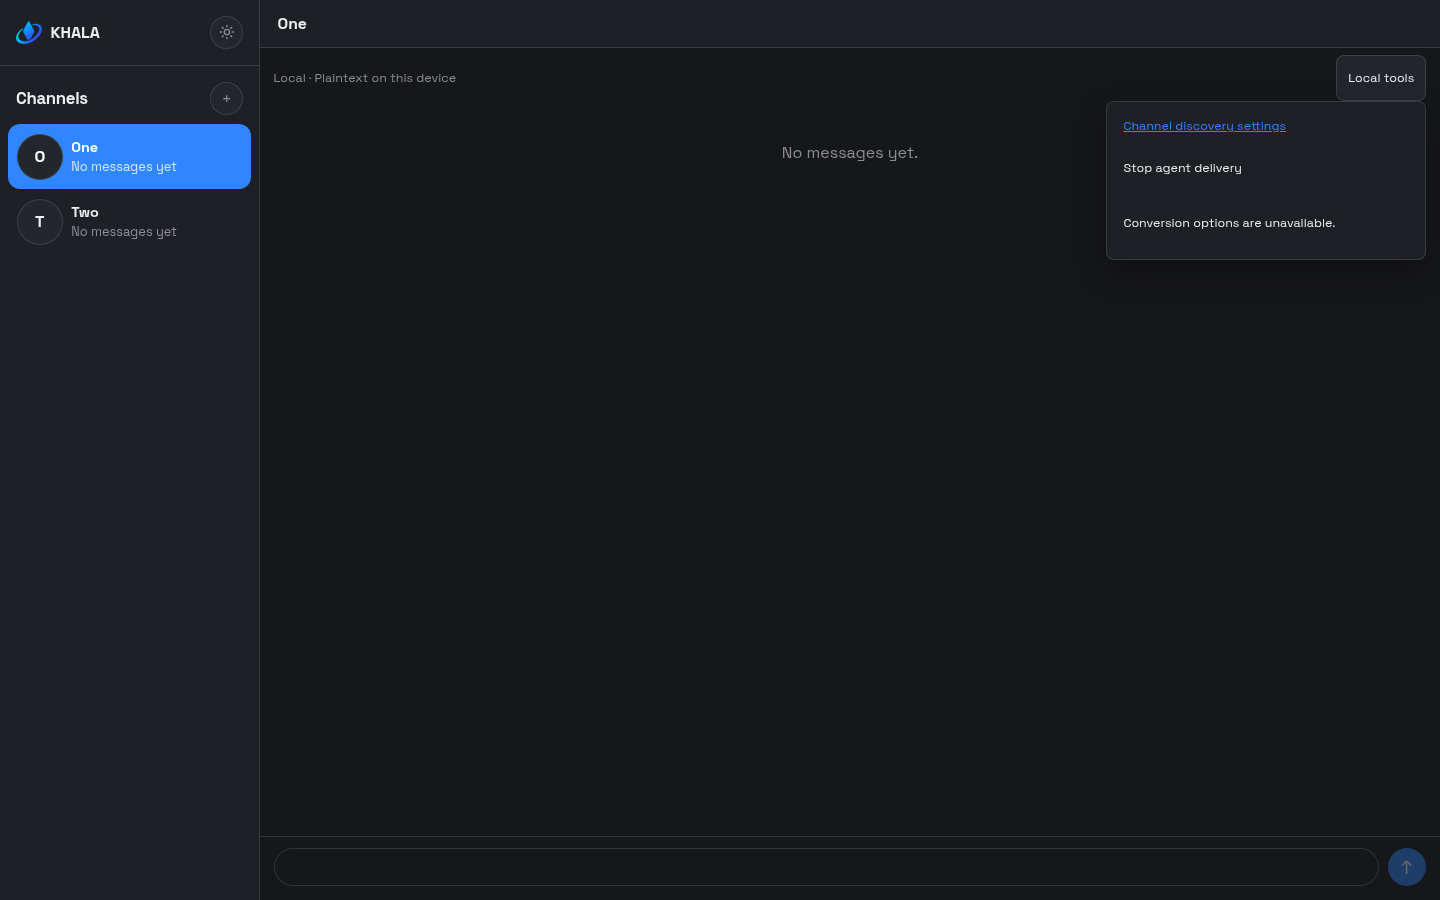
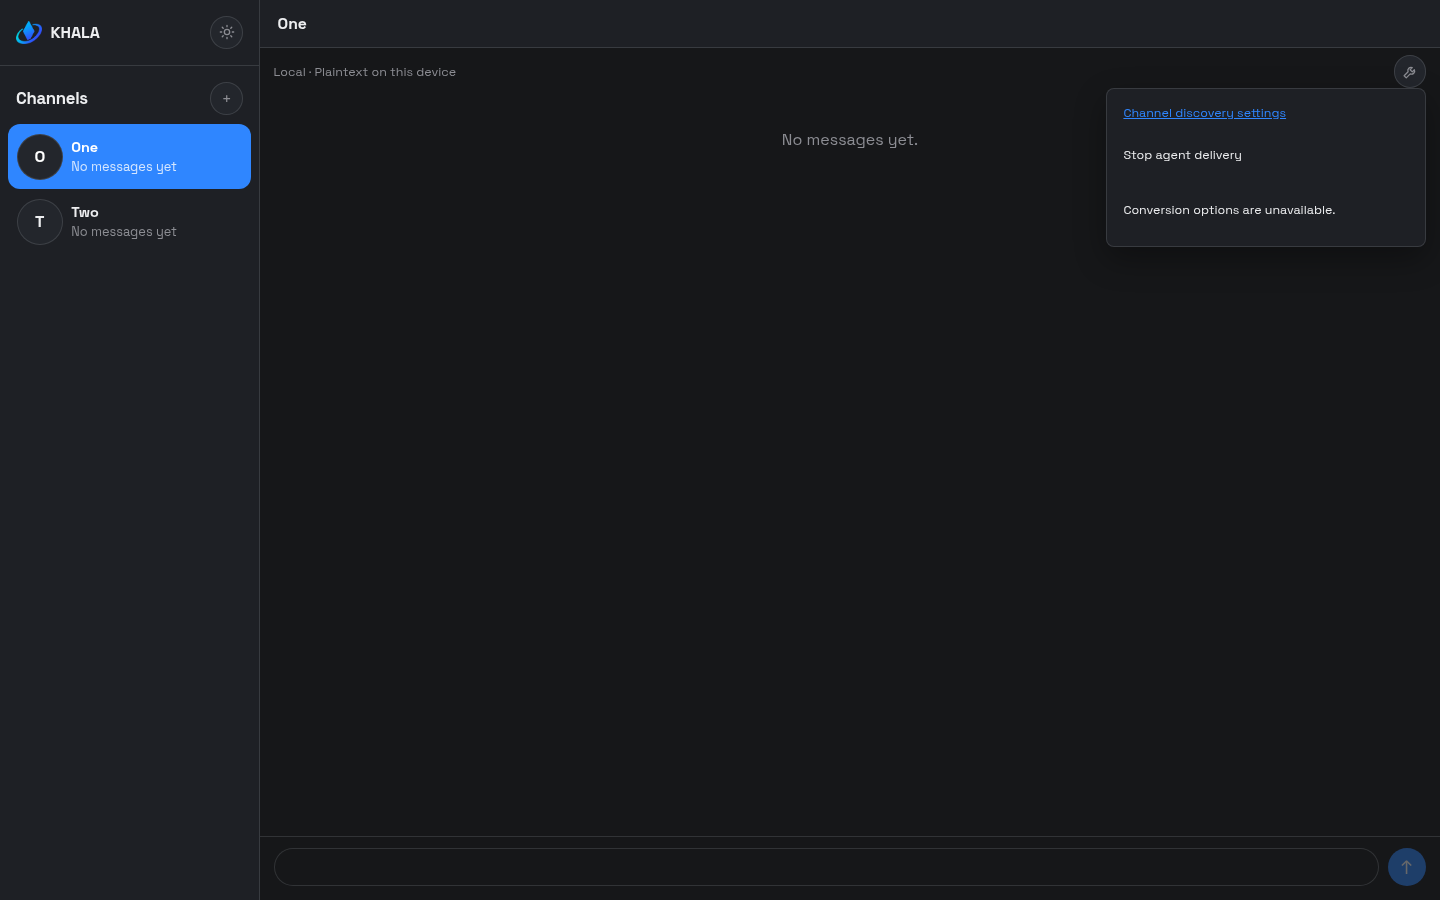
Keep channel tools compact

diff --git a/apps/web/src/composition/human/mount.tsx b/apps/web/src/composition/human/mount.tsx
@@ -4,6 +4,7 @@ import type { ChannelAccessRequestHandle, IdentityPort } from '@khala/contracts/
 import { AiurShell, ThemeToggle } from '../../shell/AiurShell';
 import { KhalaPageFrame } from '../../shell/KhalaPageFrame';
 import { Panel } from '../../shell/Panel';
+import { ChannelCareIcon } from '../../shell/icons';
 import type { ShellMode } from '../../shell/types';
 import { ChannelRequestsInbox } from '../../features/channel-access/ChannelRequestsInbox';
 import { ChannelRequestsNavEntry } from '../../features/channel-access/ChannelRequestsNavEntry';
@@ -201,9 +202,10 @@ function OwnerShell({ application, createController, routes, chrome, context, na
         onNavigate={() => { setDrawerOpen(false); navigateRoute(routes.channelRequestsPath()); }} />
         <button ref={createButton} type="button" className="aiur-shell__icon-button" aria-label="Create channel" title="Create channel" onClick={() => { setDrawerOpen(false); setCreating(true); }}>+</button></>}
       onSelect={id => { if (conversations?.some(item => item.id === id)) { setDrawerOpen(false); navigateRoute(routes.roomPath(id)); } }} />
-    {hasChannelTools && (route.kind === 'channel' || route.kind === 'channel_tools') ? <a className="khala-sidebar__channel-tools" href={routes.channelToolsPath(route.roomId)}
+    {hasChannelTools && (route.kind === 'channel' || route.kind === 'channel_tools') ? <a className="khala-sidebar__channel-tools aiur-shell__icon-button" href={routes.channelToolsPath(route.roomId)}
+      aria-label="Channel care" title="Channel care"
       aria-current={route.kind === 'channel_tools' ? 'page' : undefined}
-      onClick={event => { if (event.button !== 0 || event.metaKey || event.ctrlKey || event.shiftKey || event.altKey) return; event.preventDefault(); setDrawerOpen(false); navigateRoute(routes.channelToolsPath(route.roomId)); }}>Channel care</a> : null}
+      onClick={event => { if (event.button !== 0 || event.metaKey || event.ctrlKey || event.shiftKey || event.altKey) return; event.preventDefault(); setDrawerOpen(false); navigateRoute(routes.channelToolsPath(route.roomId)); }}><ChannelCareIcon /></a> : null}
   </>;
   return (
     <AiurShell

diff --git a/apps/web/src/shell/shell.css b/apps/web/src/shell/shell.css
@@ -207,14 +207,14 @@
 .khala-sidebar .conversation-list{border-right:0;min-height:0;height:auto}
 .khala-sidebar .conversation-list__head{align-items:center;gap:.5rem}
 .khala-sidebar .conversation-list__head-actions{margin-left:auto}
-.khala-sidebar__channel-tools{display:block;margin:.65rem .75rem;padding:.7rem .8rem;color:var(--khala-ink);text-decoration:none;border:1px solid var(--khala-line);border-radius:.5rem}
-.khala-sidebar__channel-tools:hover{background:var(--khala-fill-control)}
+.khala-sidebar__channel-tools{width:44px;height:44px;margin:.65rem .75rem;text-decoration:none}
 .khala-sidebar__channel-tools:focus-visible,.khala-sidebar__channel-tools[aria-current='page']{outline:2px solid var(--khala-accent);outline-offset:2px}
 .channel-tools-page{height:100%;overflow:auto;padding:1rem;box-sizing:border-box}
 .channel-tools-page .khala-page-frame{max-width:60rem;margin:0 auto}
 .channel-tools-page .khala-page-frame__body{display:flex;flex-direction:column;gap:1rem}
 .local-channel-tools{position:relative;color:var(--khala-ink)}
-.local-channel-tools>summary{display:flex;align-items:center;min-height:44px;padding:0 .7rem;cursor:pointer;border:1px solid var(--khala-line);border-radius:.5rem;background:var(--khala-fill-control)}
+.local-channel-tools>summary{width:44px;height:44px;box-sizing:border-box;list-style:none}
+.local-channel-tools>summary::-webkit-details-marker{display:none}
 .local-channel-tools>summary:focus-visible{outline:2px solid var(--khala-accent);outline-offset:2px}
 .local-channel-tools__content{position:absolute;right:0;top:100%;z-index:5;display:grid;gap:.75rem;width:min(20rem,calc(100vw - 2rem));max-height:min(60vh,30rem);overflow:auto;padding:1rem;box-sizing:border-box;background:var(--khala-fill-raised);border:1px solid var(--khala-line);box-shadow:0 12px 32px #0005;border-radius:.5rem}
 .local-channel-tools__content a{color:var(--khala-accent)}

diff --git a/apps/web/src/internal/local-entry.browser.spec.ts b/apps/web/src/internal/local-entry.browser.spec.ts
@@ -119,7 +119,14 @@ test('local web entry: create/open/send/observe over real HTTP without hosted-on
     assert.equal(await page.getByRole('heading', { name: 'One', level: 2 }).count(), 1);
     assert.equal(await page.getByRole('button', { name: 'Channel details' }).count(), 0);
     const localTools = page.locator('.local-channel-tools');
-    await localTools.locator('summary').first().click();
+    const toolsToggle = localTools.locator('summary').first();
+    assert.equal(await toolsToggle.getAttribute('aria-label'), 'Local tools');
+    assert.equal(await toolsToggle.getAttribute('title'), 'Local tools');
+    assert.equal((await toolsToggle.innerText()).trim(), '');
+    await toolsToggle.focus();
+    assert.equal(await toolsToggle.evaluate(node => node === document.activeElement), true);
+    await page.keyboard.press('Enter');
+    assert.equal(await localTools.getAttribute('open'), '');
     await localTools.getByRole('link', { name: 'Channel discovery settings' }).waitFor();
     assert.equal(await localTools.getByRole('link', { name: 'Channel requests' }).count(), 0);
     const stopSummary = localTools.locator('summary').filter({ hasText: 'Stop agent delivery' });
@@ -136,7 +143,9 @@ test('local web entry: create/open/send/observe over real HTTP without hosted-on
       await page.setViewportSize({ width: 1440, height: 900 });
       await page.screenshot({ path: path.join(screenshotDir, 'local-desktop-tools.png'), fullPage: true });
     }
-    await localTools.locator('summary').first().click();
+    await toolsToggle.focus();
+    await page.keyboard.press('Enter');
+    assert.equal(await localTools.getAttribute('open'), null);
     if (screenshotDir) {
       await page.screenshot({ path: path.join(screenshotDir, 'local-desktop.png'), fullPage: true });
       await page.setViewportSize({ width: 390, height: 844 });

diff --git a/apps/web/src/composition/human/device-loss.browser.spec.ts b/apps/web/src/composition/human/device-loss.browser.spec.ts
@@ -219,7 +219,12 @@ test('owner conversation shell fills desktop and phone with conditional request 
       await mkdir(screenshotDir, { recursive: true });
       await page.screenshot({ path: join(screenshotDir, 'human-desktop.png') });
     }
-    await page.getByRole('link', { name: 'Channel care' }).click();
+    const channelCare = page.getByRole('link', { name: 'Channel care' });
+    assert.equal(await channelCare.getAttribute('title'), 'Channel care');
+    assert.equal((await channelCare.innerText()).trim(), '');
+    await channelCare.focus();
+    assert.equal(await channelCare.evaluate(node => node === document.activeElement), true);
+    await page.keyboard.press('Enter');
     await page.getByRole('heading', { name: 'Channel care' }).waitFor();
     await page.evaluate(() => window.__lossHarness.navigate('/channels/room_1'));
     await title.getByText('First channel').waitFor();
@@ -231,6 +236,8 @@ test('owner conversation shell fills desktop and phone with conditional request 
     if (screenshotDir) await page.screenshot({ path: join(screenshotDir, 'human-mobile.png') });
     await page.getByRole('button', { name: 'Channels' }).click();
     await page.waitForTimeout(250);
+    assert.equal(await channelCare.isVisible(), true);
+    if (screenshotDir) await page.screenshot({ path: join(screenshotDir, 'human-mobile-care.png') });
     await requests.focus();
     assert.equal(await requests.evaluate(node => node === document.activeElement), true);
     if (screenshotDir) await page.screenshot({ path: join(screenshotDir, 'human-mobile-requests.png') });

diff --git a/apps/web/src/internal/composition/room.tsx b/apps/web/src/internal/composition/room.tsx
@@ -8,6 +8,7 @@ import { ChannelScreen } from '../../features/channel/ChannelScreen';
 import { createTimelineController } from '../../features/timeline/controller';
 import { TimelineScreen } from '../../features/timeline/TimelineScreen';
 import { Panel } from '../../shell/Panel';
+import { LocalToolsIcon } from '../../shell/icons';
 import type { HumanRouteContext } from '../../composition/human/application';
 import { LocalAgentControls } from '../controls/LocalAgentControls';
 import { createListeningController } from '../controls/listening-controller';
@@ -216,7 +217,7 @@ export function LocalRoom({
       showPresence={false}
       renderHeaderActions={() => <>
         {listeningController ? <LocalAgentControls controller={listeningController} /> : null}
-        <details className="local-channel-tools"><summary>Local tools</summary><div className="local-channel-tools__content">
+        <details className="local-channel-tools"><summary className="aiur-shell__icon-button" aria-label="Local tools" title="Local tools"><LocalToolsIcon /></summary><div className="local-channel-tools__content">
           {settingsHref ? <a href={settingsHref}>Channel discovery settings</a> : null}
           {stop && stopController ? <details><summary>Stop agent delivery</summary><StopControl controller={stopController} replacementAccessUrl={stop.channelUrl(roomId)} /></details> : null}
           {makeExternal ? journey.kind === 'unknown' ? <p role="status">Checking conversion options…</p>

diff --git a/apps/web/src/shell/icons.tsx b/apps/web/src/shell/icons.tsx
@@ -16,3 +16,17 @@ export function SettingsIcon() {
     <circle cx="12" cy="12" r="3" />
   </svg>;
 }
+
+export function ChannelCareIcon() {
+  return <svg aria-hidden="true" viewBox="0 0 24 24" width="17" height="17" fill="none" stroke="currentColor" strokeWidth="1.8" strokeLinecap="round" strokeLinejoin="round">
+    <circle cx="12" cy="12" r="9" />
+    <circle cx="12" cy="12" r="3" />
+    <path d="M5.6 5.6 9.9 9.9m4.2 4.2 4.3 4.3M18.4 5.6l-4.3 4.3m-4.2 4.2-4.3 4.3" />
+  </svg>;
+}
+
+export function LocalToolsIcon() {
+  return <svg aria-hidden="true" viewBox="0 0 24 24" width="17" height="17" fill="none" stroke="currentColor" strokeWidth="1.8" strokeLinecap="round" strokeLinejoin="round">
+    <path d="M14.5 6.5a4.5 4.5 0 0 0-5.9 5.9L3 18l3 3 5.6-5.6a4.5 4.5 0 0 0 5.9-5.9l-3 3-3-3 3-3Z" />
+  </svg>;
+}

diff --git a/apps/web/src/composition/human/mount.test.tsx b/apps/web/src/composition/human/mount.test.tsx
@@ -163,7 +163,9 @@ describe('HumanApplicationScreen', () => {
     const room = renderToStaticMarkup(<HumanApplicationScreen {...props}
       application={application({ phase: 'ready', path: context.path, context } as HumanApplicationSnapshot)} />);
     expect(room).toContain('href="/channels/room_1/tools"');
-    expect(room).toContain('Channel care');
+    expect(room).toContain('aria-label="Channel care"');
+    expect(room).toContain('title="Channel care"');
+    expect(room).not.toContain('>Channel care</a>');
     expect(room).not.toContain('Channel settings');
     expect(room).not.toContain('Channel requests, 0 pending');
     const toolsContext = readyContext('/channels/room_1/tools');

diff --git a/apps/web/src/internal/composition/screen.test.tsx b/apps/web/src/internal/composition/screen.test.tsx
@@ -90,7 +90,8 @@ describe('LocalApplicationScreen', () => {
     expect(html).not.toContain('channel-requests-nav');
     expect((html.match(/<main/g) ?? [])).toHaveLength(1);
     expect(html).not.toContain('aria-label="Channel details"');
-    expect(html).toContain('<summary>Local tools</summary>');
+    expect(html).toContain('aria-label="Local tools" title="Local tools"');
+    expect(html).not.toContain('>Local tools</summary>');
     expect(html).toContain('href="/channels/ch_1/settings"');
   });
 
